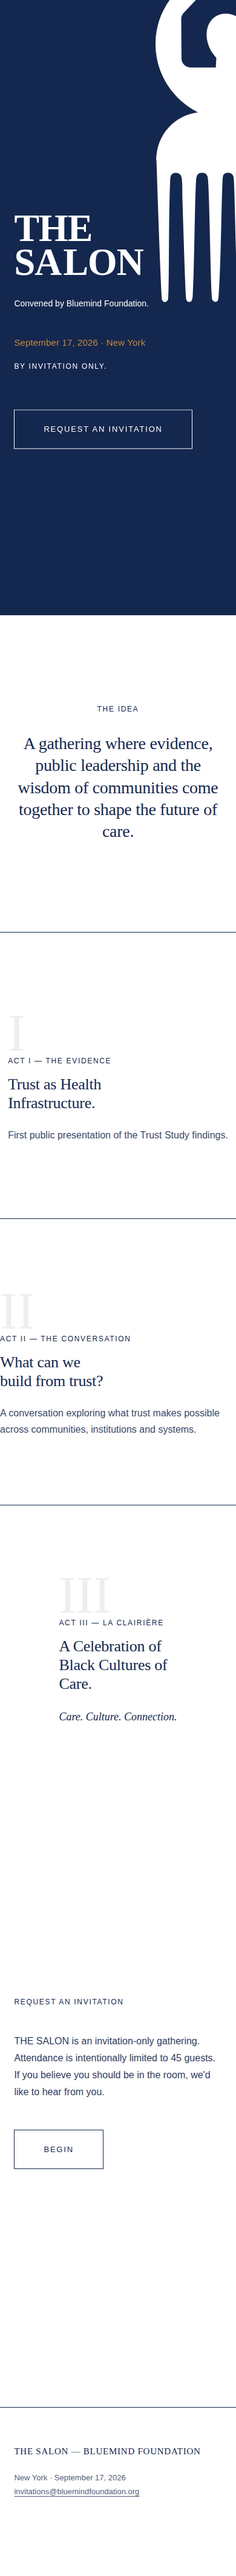
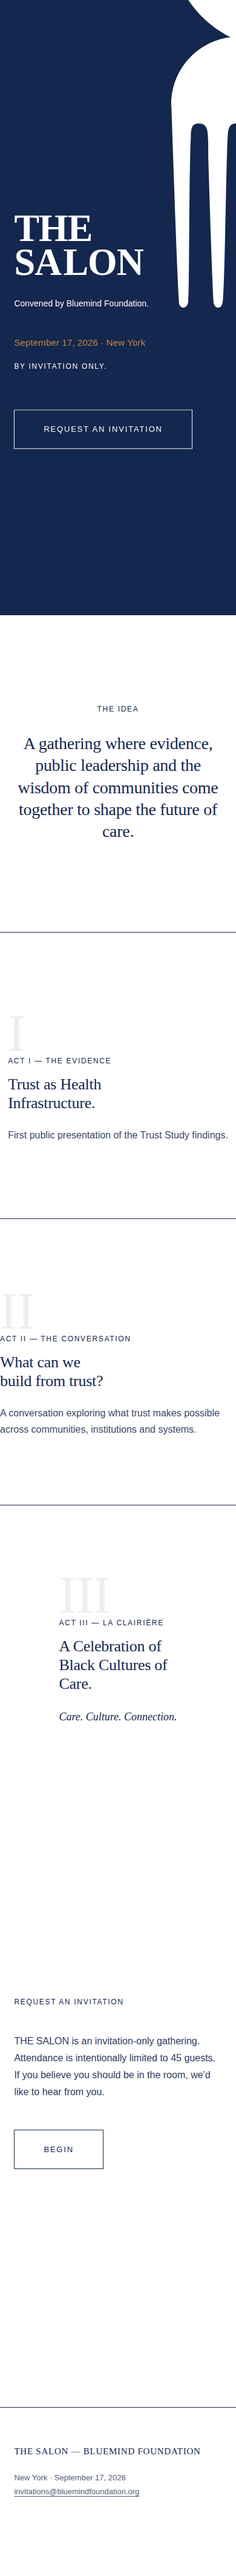
Use Landry's own pre-cropped comb SVG (clip-paths baked in), zoomed large
Swap in the exact SVG supplied — same three paths, now with three
<clipPath> elements (Inkscape's own crop export) referenced via
clip-path="url(#clipPath17/18/19)", viewBox 139.07036x420.37173. This
is the designer's own framing rather than a crop composed via this
page's CSS positioning, per explicit request to use it "en intégralité
et bien zoomé." Fill stays white (currentColor) as requested previously.

Updated .hero-v2-comb-wrap's aspect-ratio to match the new viewBox and
scaled it up substantially on both mobile and desktop, with mobile's
right-offset kept wide enough to avoid re-introducing the text overlap
fixed in the previous pass.

Changed region(s): [[0.6462, 0.0, 1.0, 0.1241]]

diff --git a/landing-page/index.html b/landing-page/index.html
@@ -27,16 +27,27 @@
   <!-- Master visual comb artwork (final, supplied by Landry) — a
        graphic/architectural element bled large across the hero, not a
        logo. Content deliberately minimal: no tagline, no UNGA framing.
-       Recolored to currentColor (white on this hero) per review — the
-       source file's own fill was #d88d63; see README "The master visual
-       comb" for the color-swap history. -->
+       This is Landry's OWN pre-cropped export (clip-paths baked in by
+       Inkscape — see README "The master visual comb"), not a crop we
+       compose via CSS positioning. Recolored to currentColor (white). -->
   <section class="hero hero-v2" id="top">
     <div class="hero-v2-comb-wrap" aria-hidden="true">
-      <svg class="hero-v2-comb" viewBox="0 0 275.75048 607.53936" preserveAspectRatio="xMidYMin meet">
-        <g transform="translate(-172.59999,-96.629739)">
-          <path d="m 0,0 -181.692,0.831 c 2.68,-80.882 6.713,-193.855 7.905,-196.636 2.234,-5.217 7.778,-3.06 8.433,2.532 1.414,12.053 0.5,119.237 2.578,159.187 0.271,5.21 -0.091,11.654 6.752,12.11 6.588,0.439 8.828,-3.266 9.371,-9.057 0.784,-8.366 0.415,-17.648 0.683,-26.074 1.289,-40.555 4.216,-133.743 5.297,-137.88 0.784,-3.007 2.92,-4.626 6.144,-3.119 2.037,0.951 2.541,6.365 2.719,8.569 1.964,24.44 2.821,131.156 4.497,156.053 0.254,3.779 0.652,9.858 5.153,11.197 5.535,1.646 10.162,-0.721 10.948,-6.305 2.461,-17.484 3.93,-160.791 6.16,-166.884 1.276,-3.488 6.086,-4.36 7.618,-1.071 0.486,1.042 0.997,4.998 1.111,6.389 3.479,42.15 4.059,154.187 5.85,163.451 1.201,6.204 12.394,6.942 14.363,-0.39 0.886,-3.298 0.975,-12.327 1.113,-16.333 1.31,-37.788 3.203,-136.054 4.5,-146.726 0.261,-2.14 0.693,-7 2.715,-7.947 6.434,-3.012 6.675,4.973 6.981,9.154 3.892,53.088 2.653,106.518 5.206,159.721 0.749,6.085 4.289,8.194 10.541,7.179 3.739,-0.605 4.622,-5.266 4.895,-8.331 1.416,-15.902 3.208,-165.355 6.863,-167.599 5.649,-3.468 6.985,4.165 7.299,7.823 3.874,45.092 5.08,153.878 5.889,160.306 1.323,10.507 14.504,10.986 15.438,1.336 0.916,-9.452 -0.348,-117.107 2.563,-159.78 0.136,-2 0.815,-8.367 2.095,-9.474 4.651,-4.023 7.148,5.187 7.572,8.229 1.735,12.465 6.861,116.972 9.616,190.37 C 17.176,0.831 0.01,0.282 0,0" style="fill:currentColor;fill-opacity:1;fill-rule:nonzero;stroke:none" transform="matrix(1.3333333,0,0,-1.3333333,416.32267,439.02147)"/>
-          <path d="M 0,0 C -1.927,0.236 -3.085,-2.085 -1.732,-3.488 L 52.286,-59.58 c 2.225,-2.303 3.464,-5.373 3.485,-8.56 l 0.354,-53.851 c 0.045,-6.843 -5.445,-12.394 -12.269,-12.408 l -34.566,-0.073 -0.254,4.021 c 0.159,0.103 0.329,0.195 0.499,0.309 14.112,9.352 15.915,31.495 4.028,49.473 -11.887,17.979 -32.976,24.972 -47.087,15.621 -14.112,-9.351 -15.915,-31.506 -4.028,-49.473 1.646,-2.498 3.483,-4.768 5.434,-6.82 l -0.677,-13.218 -34.566,-0.073 c -6.824,-0.014 -12.397,5.515 -12.442,12.358 l -0.354,53.85 c -0.02,3.187 1.19,6.263 3.385,8.575 l 53.269,56.315 c 1.335,1.409 0.157,3.725 -1.766,3.481 -51.443,-6.39 -90.971,-50.716 -90.085,-104.166 0.955,-56.957 48.254,-103.032 105.054,-102.377 56.654,0.644 102.115,46.947 101.742,103.882 C 91.094,-49.743 51.183,-6.142 0,0" style="fill:currentColor;fill-opacity:1;fill-rule:nonzero;stroke:none" transform="matrix(1.3333333,0,0,-1.3333333,326.4248,96.652)"/>
-          <path d="m 0,0 h -198.867 v 1.686 c 0,35.728 28.962,64.691 64.69,64.691 H -64.69 C -28.963,66.377 0,37.414 0,1.686 Z" style="fill:currentColor;fill-opacity:1;fill-rule:nonzero;stroke:none" transform="matrix(1.3333333,0,0,-1.3333333,439.22387,445.75067)"/>
+      <svg class="hero-v2-comb" viewBox="0 0 139.07036 420.37173" preserveAspectRatio="xMidYMin meet">
+        <defs>
+          <clipPath clipPathUnits="userSpaceOnUse" id="clipPath17">
+            <rect width="114.02574" height="315.47122" x="-209.69089" y="-121.46496" transform="scale(1,-1)"/>
+          </clipPath>
+          <clipPath clipPathUnits="userSpaceOnUse" id="clipPath18">
+            <rect width="114.02574" height="315.47122" x="-125.09158" y="140.35905" transform="scale(1,-1)"/>
+          </clipPath>
+          <clipPath clipPathUnits="userSpaceOnUse" id="clipPath19">
+            <rect width="114.02574" height="315.47122" x="-192.51498" y="-116.41806" transform="scale(1,-1)"/>
+          </clipPath>
+        </defs>
+        <g transform="translate(-172.59998,-283.7974)">
+          <path d="m 0,0 -181.692,0.831 c 2.68,-80.882 6.713,-193.855 7.905,-196.636 2.234,-5.217 7.778,-3.06 8.433,2.532 1.414,12.053 0.5,119.237 2.578,159.187 0.271,5.21 -0.091,11.654 6.752,12.11 6.588,0.439 8.828,-3.266 9.371,-9.057 0.784,-8.366 0.415,-17.648 0.683,-26.074 1.289,-40.555 4.216,-133.743 5.297,-137.88 0.784,-3.007 2.92,-4.626 6.144,-3.119 2.037,0.951 2.541,6.365 2.719,8.569 1.964,24.44 2.821,131.156 4.497,156.053 0.254,3.779 0.652,9.858 5.153,11.197 5.535,1.646 10.162,-0.721 10.948,-6.305 2.461,-17.484 3.93,-160.791 6.16,-166.884 1.276,-3.488 6.086,-4.36 7.618,-1.071 0.486,1.042 0.997,4.998 1.111,6.389 3.479,42.15 4.059,154.187 5.85,163.451 1.201,6.204 12.394,6.942 14.363,-0.39 0.886,-3.298 0.975,-12.327 1.113,-16.333 1.31,-37.788 3.203,-136.054 4.5,-146.726 0.261,-2.14 0.693,-7 2.715,-7.947 6.434,-3.012 6.675,4.973 6.981,9.154 3.892,53.088 2.653,106.518 5.206,159.721 0.749,6.085 4.289,8.194 10.541,7.179 3.739,-0.605 4.622,-5.266 4.895,-8.331 1.416,-15.902 3.208,-165.355 6.863,-167.599 5.649,-3.468 6.985,4.165 7.299,7.823 3.874,45.092 5.08,153.878 5.889,160.306 1.323,10.507 14.504,10.986 15.438,1.336 0.916,-9.452 -0.348,-117.107 2.563,-159.78 0.136,-2 0.815,-8.367 2.095,-9.474 4.651,-4.023 7.148,5.187 7.572,8.229 1.735,12.465 6.861,116.972 9.616,190.37 C 17.176,0.831 0.01,0.282 0,0" style="fill:currentColor;fill-opacity:1;fill-rule:nonzero;stroke:none" transform="matrix(1.3333333,0,0,-1.3333333,416.32267,439.02147)" clip-path="url(#clipPath19)"/>
+          <path d="M 0,0 C -1.927,0.236 -3.085,-2.085 -1.732,-3.488 L 52.286,-59.58 c 2.225,-2.303 3.464,-5.373 3.485,-8.56 l 0.354,-53.851 c 0.045,-6.843 -5.445,-12.394 -12.269,-12.408 l -34.566,-0.073 -0.254,4.021 c 0.159,0.103 0.329,0.195 0.499,0.309 14.112,9.352 15.915,31.495 4.028,49.473 -11.887,17.979 -32.976,24.972 -47.087,15.621 -14.112,-9.351 -15.915,-31.506 -4.028,-49.473 1.646,-2.498 3.483,-4.768 5.434,-6.82 l -0.677,-13.218 -34.566,-0.073 c -6.824,-0.014 -12.397,5.515 -12.442,12.358 l -0.354,53.85 c -0.02,3.187 1.19,6.263 3.385,8.575 l 53.269,56.315 c 1.335,1.409 0.157,3.725 -1.766,3.481 -51.443,-6.39 -90.971,-50.716 -90.085,-104.166 0.955,-56.957 48.254,-103.032 105.054,-102.377 56.654,0.644 102.115,46.947 101.742,103.882 C 91.094,-49.743 51.183,-6.142 0,0" style="fill:currentColor;fill-opacity:1;fill-rule:nonzero;stroke:none" transform="matrix(1.3333333,0,0,-1.3333333,326.4248,96.652)" clip-path="url(#clipPath18)"/>
+          <path d="m 0,0 h -198.867 v 1.686 c 0,35.728 28.962,64.691 64.69,64.691 H -64.69 C -28.963,66.377 0,37.414 0,1.686 Z" style="fill:currentColor;fill-opacity:1;fill-rule:nonzero;stroke:none" transform="matrix(1.3333333,0,0,-1.3333333,439.22387,445.75067)" clip-path="url(#clipPath17)"/>
         </g>
       </svg>
     </div>

diff --git a/landing-page/styles.css b/landing-page/styles.css
@@ -165,17 +165,18 @@ section {
   align-items: flex-end;
 }
 
-/* Sized with aspect-ratio (matching the artwork's own 275.75:607.54
-   proportions) rather than an independent width+height box — the real
-   artwork should never be stretched or arbitrarily cropped internally.
-   Bleed is achieved by positioning the box partly off the hero's edges,
-   not by cropping inside the SVG. */
+/* Sized with aspect-ratio (matching the artwork's own pre-cropped
+   139.07:420.37 viewBox) rather than an independent width+height box —
+   the artwork should never be stretched. This crop was baked into the
+   SVG itself by Landry (clip-paths), so unlike the first integration
+   pass, we mostly just scale it up large ("bien zoomé") and position it,
+   rather than composing the crop ourselves via CSS. */
 .hero-v2-comb-wrap {
   position: absolute;
-  top: -6vh;
-  right: -30vw;
-  width: 64vw;
-  aspect-ratio: 275.75048 / 607.53936;
+  top: -4vh;
+  right: -18vw;
+  width: 46vw;
+  aspect-ratio: 139.07036 / 420.37173;
   color: var(--color-white);
   pointer-events: none;
 }
@@ -720,9 +721,9 @@ footer {
   }
 
   .hero-v2-comb-wrap {
-    top: -10vh;
-    right: -8vw;
-    width: 46vw;
+    top: -6vh;
+    right: -6vw;
+    width: 30vw;
     bottom: auto;
     left: auto;
   }

diff --git a/landing-page/README.md b/landing-page/README.md
@@ -65,42 +65,55 @@ short enough to just be scrolled. The only persistent UI element is
 
 ## Hero — the master visual comb
 
-The comb is Landry's **final master visual artwork** — a figure-with-
-raised-arms silhouette transitioning into an afro-pick spine and teeth —
-supplied as a real SVG and inlined verbatim in `index.html` (three
-`<path>` elements, exact coordinates from the source file, wrapped in the
-same `translate(-172.59999,-96.629739)` group the file shipped with). It
-replaced an earlier original placeholder shape (a rectangle with a circle
-subtracted from its corner) that was used before this artwork arrived —
-if you see any reference to a "hollow" or "rectangle minus a circle" left
-over anywhere, it's stale from that earlier pass.
+The comb went through three versions on this page — the current one
+(third) is Landry's **own pre-cropped export**, supplied directly as SVG
+and inlined verbatim in `index.html`:
+
+1. An original placeholder shape (a rectangle with a circle subtracted
+   from its corner, plus tapered teeth) — used before any real artwork
+   arrived. If you see a reference anywhere to a "hollow" or "rectangle
+   minus a circle," it's stale from this pass.
+2. Landry's full master-visual artwork (a figure-with-raised-arms
+   silhouette transitioning into an afro-pick spine and teeth), `viewBox
+   0 0 275.75048 607.53936`, cropped/positioned via this page's own CSS
+   (`.hero-v2-comb-wrap` offsets).
+3. **Current**: Landry supplied the SAME three paths already cropped —
+   `viewBox="0 0 139.07036 420.37173"`, with three `<clipPath>` elements
+   in `<defs>` (Inkscape's own export of a crop applied in the source
+   file) referenced by each path via `clip-path="url(#clipPath17/18/19)"`.
+   This is *their* crop, not one composed via CSS — the whole point of
+   this version was to use their exact framing, "en intégralité," rather
+   than us re-deciding where to cut it.
 
 **Color**: the source file's own fill is `#d88d63` (a warm terracotta).
-The first pass on this page preserved that exact color, on the reasoning
-that it read as a deliberate designer choice. The following round of
-review asked for it in white instead, to match the earlier reference
-visual — so all three `<path>` elements now use `style="fill:currentColor…"`
-and `.hero-v2-comb-wrap { color: var(--color-white) }` sets it. If a
-future review wants the terracotta back (or any other color), it's the
-same three `fill:` occurrences in `index.html` plus the one `color` line
-in `styles.css`.
+Preserved as-is in version 2 (read as a deliberate choice at the time),
+then explicitly changed to white in versions 2 and 3 per review — all
+three `<path>` elements use `style="fill:currentColor…"` and
+`.hero-v2-comb-wrap { color: var(--color-white) }` sets it. Change both
+the three `fill:` occurrences in `index.html` and the `color` line in
+`styles.css` together if a future review wants a different color.
 
-**Sizing and crop**: `.hero-v2-comb-wrap` uses `aspect-ratio: 275.75048 /
-607.53936` (the artwork's own proportions from its `viewBox`) plus a
-`width`, rather than an independent `width` + `height` box — this
-guarantees the real artwork is never stretched or arbitrarily cropped
-*internally* (the SVG itself uses `preserveAspectRatio="xMidYMin meet"`,
-so it always renders whole and undistorted inside its box). All the
-"bleed off the edge" / monumental-crop effect comes from *positioning*
-that box mostly outside the hero via negative `top`/`right` — per review,
-this is now a much larger, tighter crop than the first integration pass
-(only a fragment of the artwork is visible within the frame, matching the
-reference visual), with separate tuned `top`/`right`/`width` values for
-mobile (base rules) vs. `≥900px` (desktop override). On mobile
-specifically, `right` has to stay pushed far enough out (`-30vw`) that the
-oversized shape doesn't visually collide with "Convened by Bluemind
-Foundation." to its left — if you make it larger still, check that
-overlap doesn't come back.
+**Sizing**: `.hero-v2-comb-wrap` uses `aspect-ratio: 139.07036 /
+420.37173` (matching the *current* SVG's own `viewBox`, not the earlier
+275.75:607.54 one — update both together if the source file changes
+again) plus a `width`, rather than an independent `width` + `height` box.
+Since the crop is now baked into the SVG itself, this page's job is just
+to scale it up ("bien zoomé") and position it — `preserveAspectRatio=
+"xMidYMin meet"` on the `<svg>` means it always renders whole and
+undistorted, never stretched, inside whatever box `.hero-v2-comb-wrap`
+is given. Separate tuned `top`/`right`/`width` values for mobile (base
+rules) vs. `≥900px` (desktop override); on mobile, `right` has to stay
+pushed out far enough (`-18vw` currently) that the oversized shape
+doesn't collide with "Convened by Bluemind Foundation." to its left.
+
+**Known open question, not resolved**: at the current size/position there
+is a visible gap of plain blue between the diagonal wedge shape (near the
+top of the crop) and the teeth below it — i.e. the connecting spine
+doesn't read as continuous at this specific zoom. This might be exactly
+what the source crop looks like at any scale (nothing wrong), or it might
+mean a different width/position would show the connecting piece. Flagged
+to the client rather than adjusted unilaterally — check before assuming
+either way.
 
 **Do not give `.hero-v2-comb-wrap` both `inset` and an explicit
 `width`/`height` in the same rule** if you touch this again — `inset` sets
